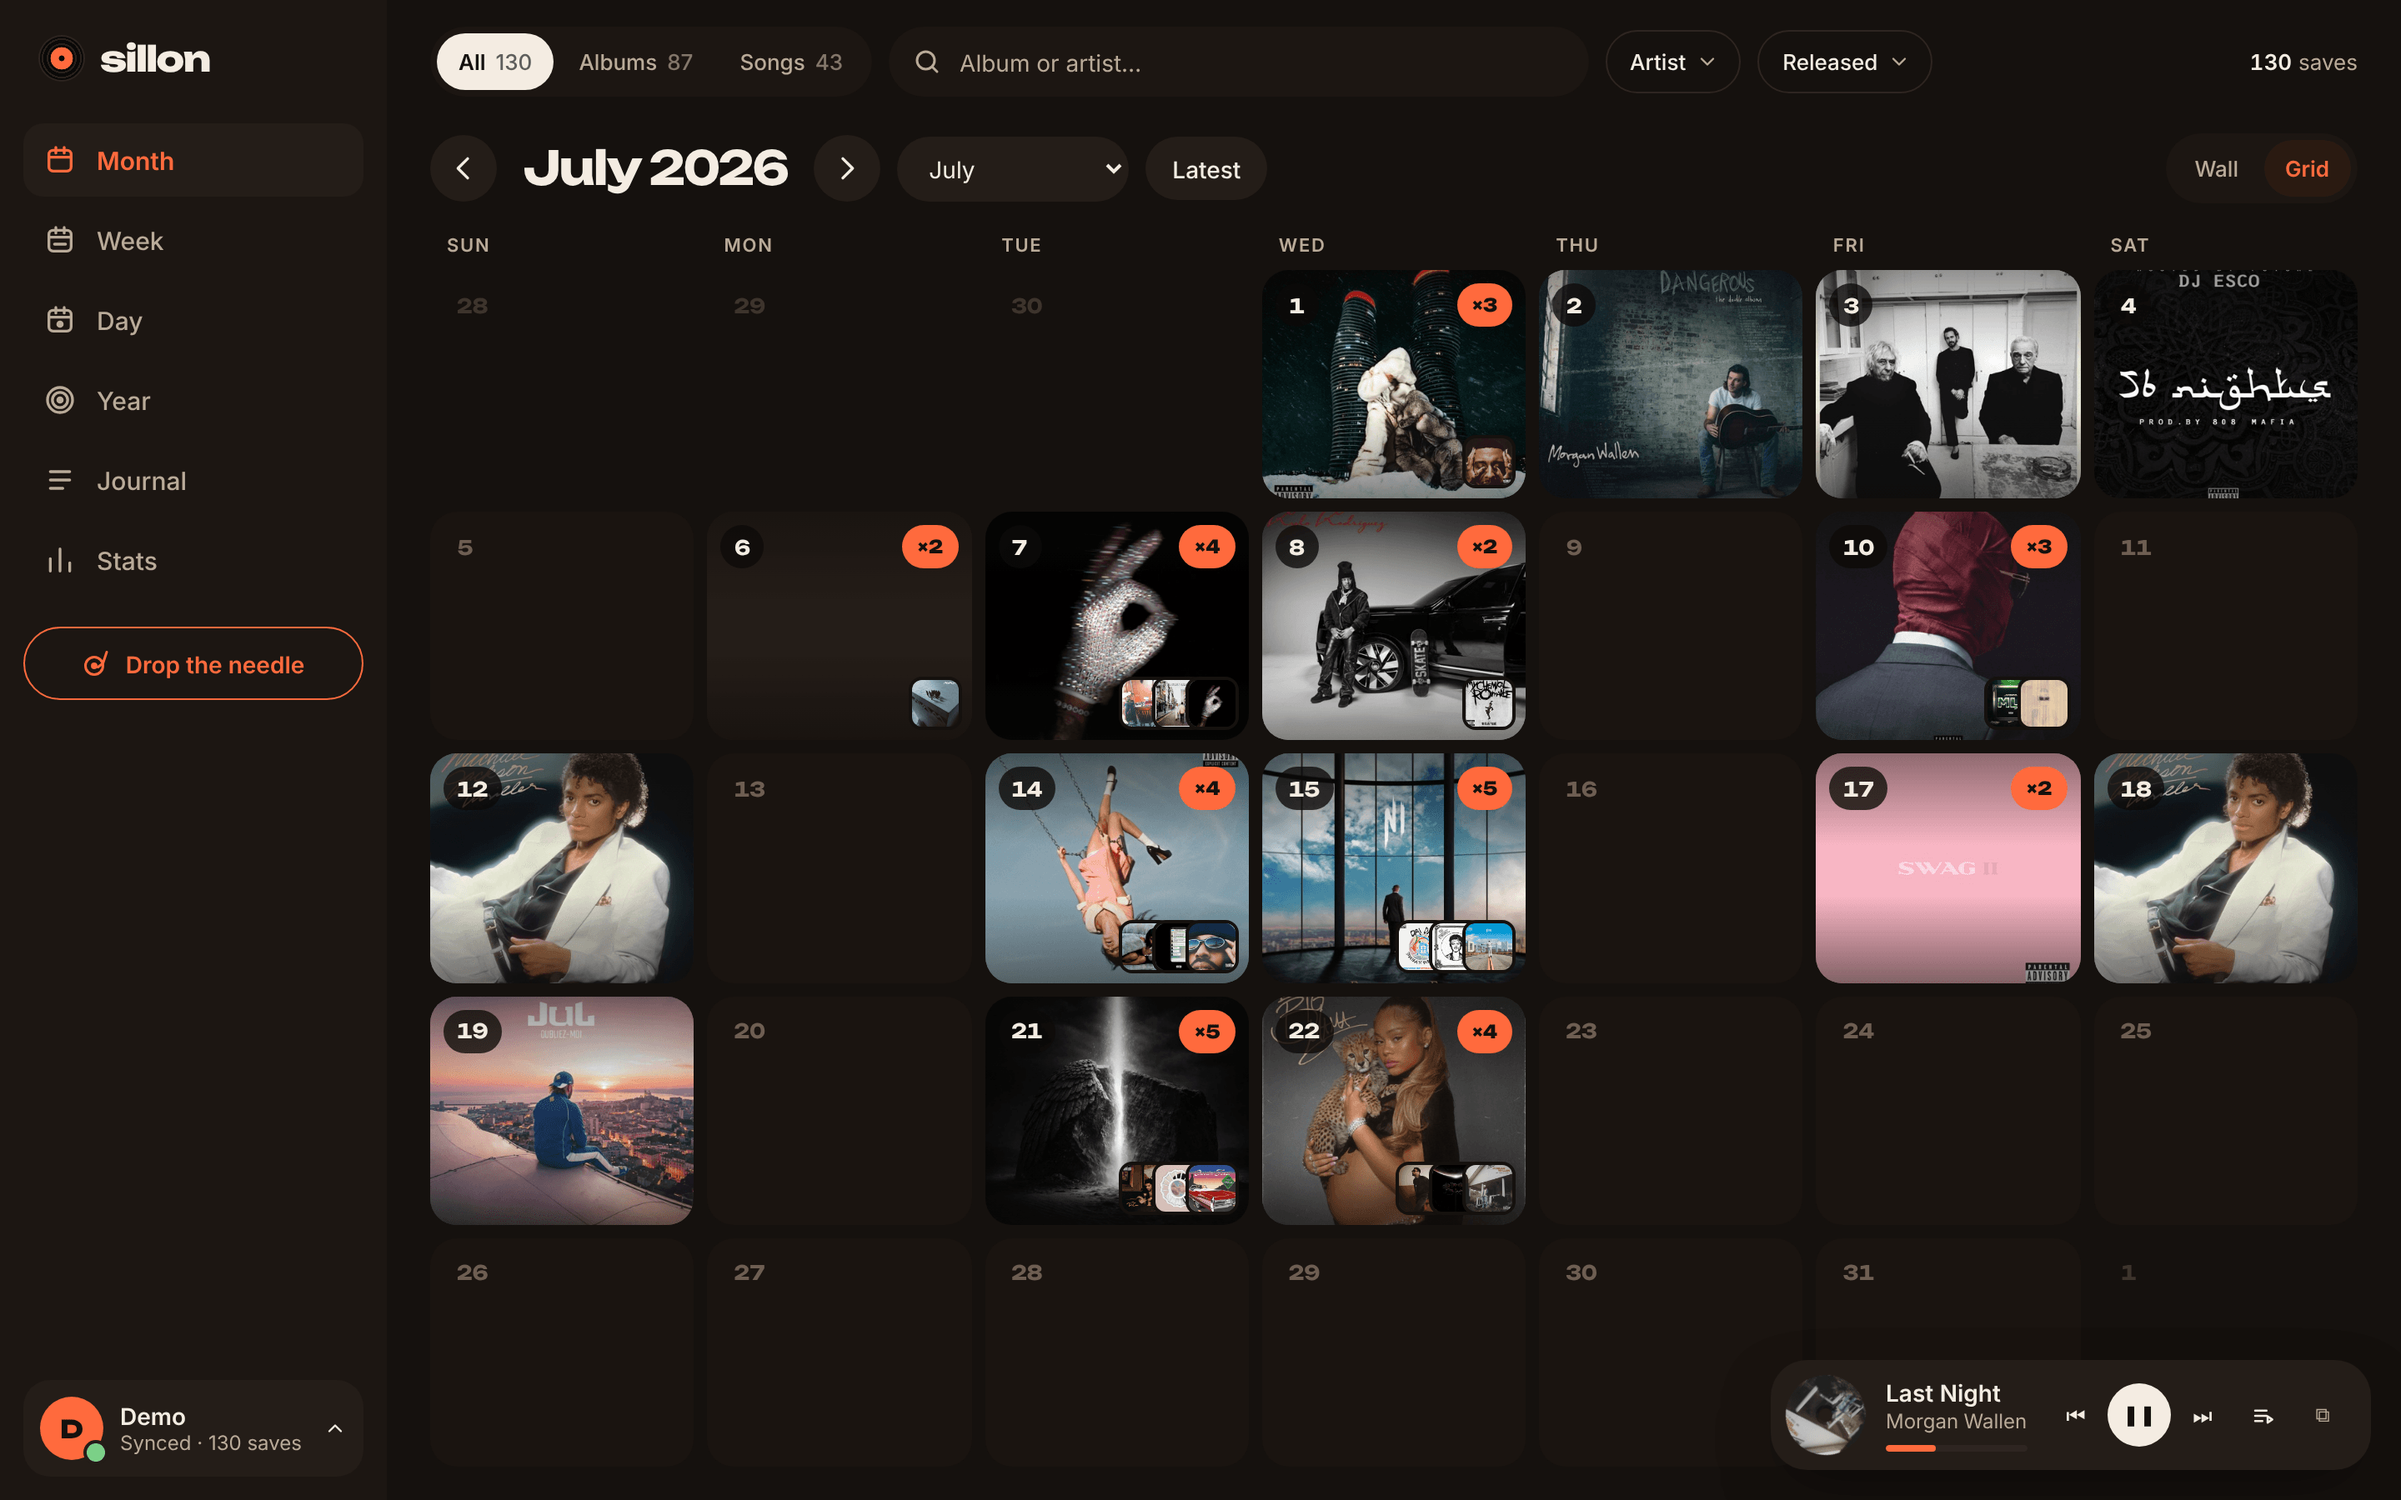
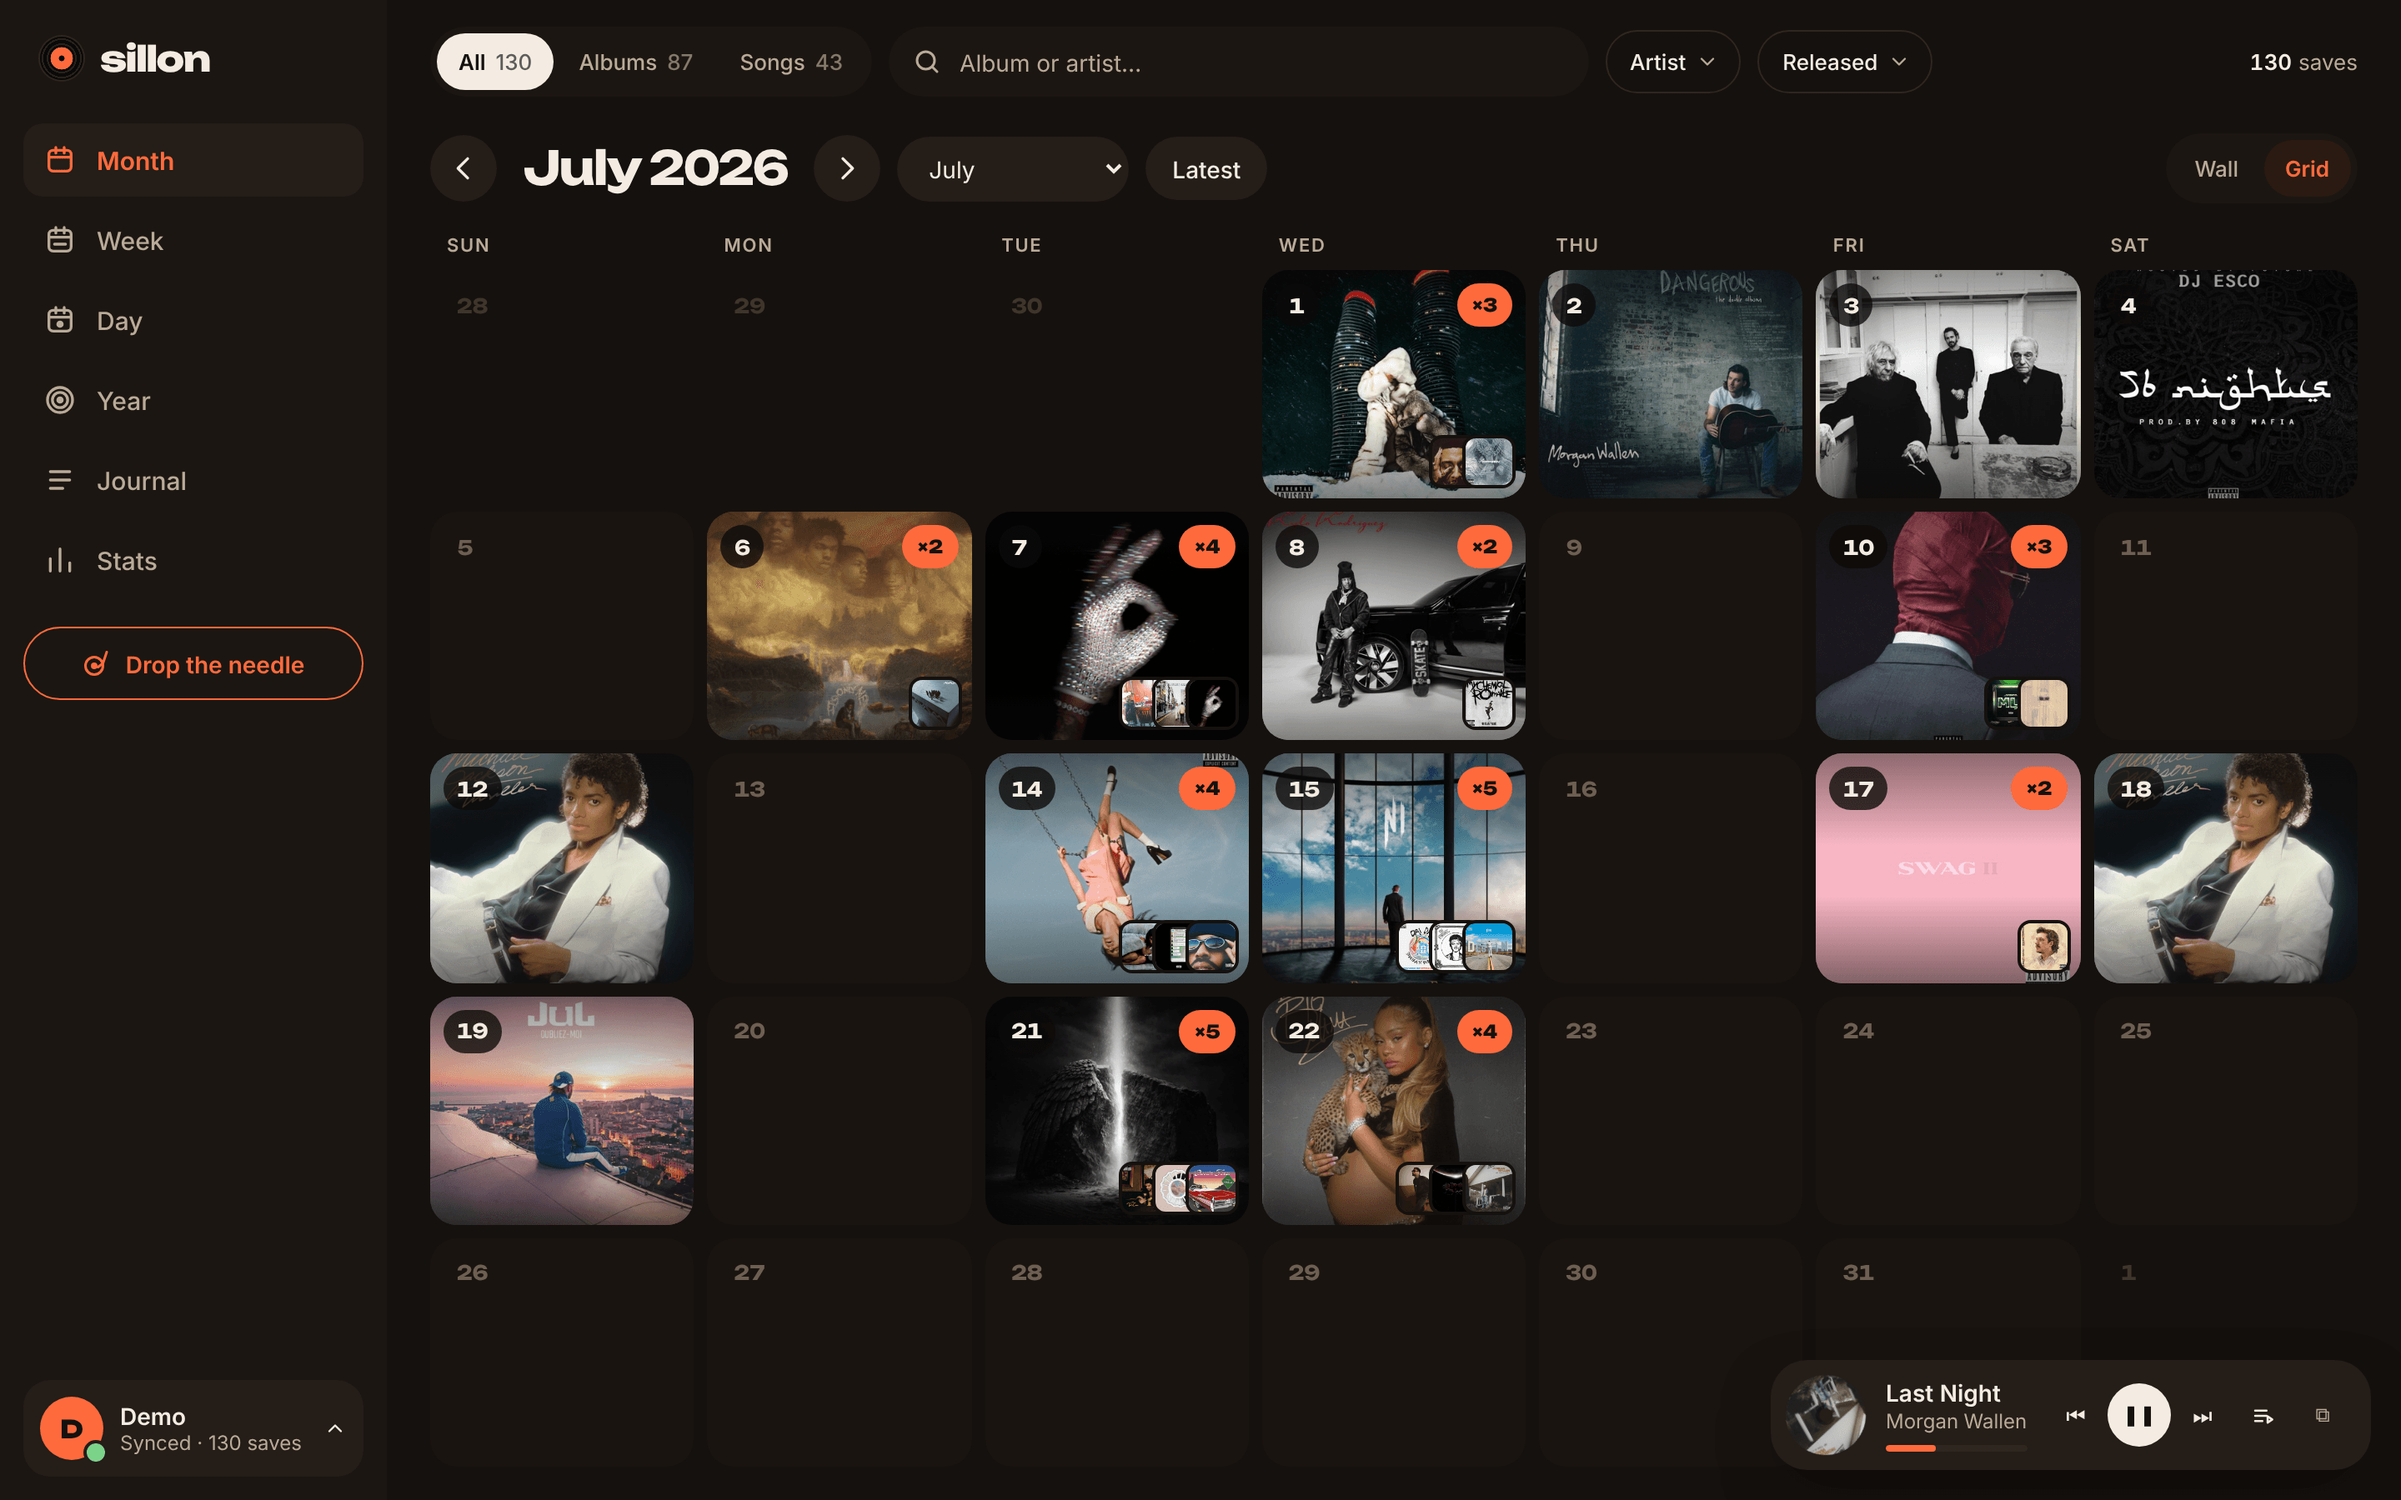
Fix the demo library's dead cover art and recapture the visuals
Ten of the 113 cover URLs in lib/demo-library.json answered 404 on
Apple's art CDN, so demo mode, the Pages showcase and docs/visuals/
showed empty tiles (third cover of 1 July, second of 6 July on the wall).
The cause was in the seed lists, not Apple: eleven track rows had copied
their release's cover without the `.rgb` part of the file name, a path
the CDN does not serve, while the album rows for the same releases used
the `.rgb.jpg` name and worked. Those rows now carry the `.rgb.jpg` URL
and the JSON is regenerated with build-demo-library.mjs (only URLs
change; the seeded save-dates are identical). 110 unique cover URLs
remain, since the fixed track rows now share their album's cover.

Verified: the curl 200-check over every mzstatic URL in the JSON prints
nothing. The app-* images in docs/visuals/ are recaptured against a
DEMO_MODE=1 production build with scripts/capture-visuals.mjs and
re-quantised with sharp (palette, quality 90, dither 1), folder ~12 MB;
the wall at night was looked at and every tile has its cover. The
README's "Known flaw" paragraph goes, and the memory's trap line becomes
a rule for future seed rows. lint (0 errors, the 9 known warnings),
typecheck and the 86 tests pass; `next build` compiles and lists every
route but exits 1 afterwards on Next 16.4.3's security-advisory notice,
which this change does not touch.

Claude-Session: https://claude.ai/code/session_01AKsXpqh5cDusK62YhjP8rs

diff --git a/docs/memory/demo-and-showcase.md b/docs/memory/demo-and-showcase.md
@@ -10,7 +10,7 @@ Read before touching `DEMO_MODE`, `lib/demo.ts`, `lib/demo-library.json`, `showc
 
 ## The fixture library is real releases with synthetic dates (2026-08-20)
 
-`lib/demo-library.json` is generated by `node scripts/build-demo-library.mjs` and holds real albums, tracks, artists and cover-art URLs; only the save-dates are invented, so the calendar looks plausible. Items ship pre-genred, which is why `demoGenres()` resolves from the fixtures instead of calling anything. **How to apply**: edit the seed lists in the script and regenerate — do not hand-edit the JSON.
+`lib/demo-library.json` is generated by `node scripts/build-demo-library.mjs` and holds real albums, tracks, artists and cover-art URLs; only the save-dates are invented, so the calendar looks plausible. Items ship pre-genred, which is why `demoGenres()` resolves from the fixtures instead of calling anything. **How to apply**: edit the seed lists in the script and regenerate — do not hand-edit the JSON. **Trap (2026-11-27)**: Apple's art CDN serves some releases only under their `.rgb.jpg` name; 11 track rows had copied the same release's cover without `.rgb` and 404'd (empty tiles on the wall, in the showcase and in `docs/visuals/`), while their album rows worked. A new seed row reuses the URL of the album row for the same release when there is one, and after any regeneration run the 200-check over every `mzstatic` URL in the JSON (`grep -oE 'https://[a-z0-9.-]*mzstatic[^"]*' lib/demo-library.json | sort -u | xargs -P16 -I{} curl -s -o /dev/null -w '%{http_code} {}\n' {} | grep -v ^200` must print nothing).
 
 ## Screenshots are captured against a running app (2026-08-20)
 
@@ -43,4 +43,4 @@ Consequences worth knowing:
 
 ## Reusable visuals live in `docs/visuals/`, real and mock-up kept apart (2026-11-27)
 
-**Decision** (the owner's ask: images for his site, CHANGELOG entries and GitHub Releases): committed PNGs in `docs/visuals/`, indexed by its `README.md` (file, what it shows, pixel size, and REAL APP or MOCKUP). `app-*` are demo-mode captures by `scripts/capture-visuals.mjs` (every view × night/day × desktop 1440×900 / phone 390×844, plus a 1200×630 social frame, all @2x); `mockup-*` are the design canvas's (`4Cf9s6rnn43rYpmVbdGiDi`) iteration-3 Sillon boards rendered alone. **Why apart**: a mockup shows things the app does not (the owner's name, invented sync times, copy later changed), so it must never pass for a screenshot. **How to apply**: regenerate the `app-*` set after any visible change (demo build, then the script; it differs from `showcase-screenshots.mjs`, which writes the gitignored `site/` in CI and must stay as is), then re-quantise with `sharp` (`png({ palette: true, quality: 90, dither: 1 })`, ~4× smaller, keeps the folder near 11 MB); update the README's table. Rendering a canvas board needs the type's `artifact-type/dc-runtime.js` served as `support.js` and its `/_blob/<id>` cover assets (read one per Artifact call); notes and titles sit in `canvas.json`, so a board rendered alone is already clean. Never publish to the canvas. **Trap found**: ~10 of the 113 demo cover URLs answer 404 on Apple's CDN, leaving empty tiles in captures and in the showcase — regenerate `lib/demo-library.json` before the next capture.
+**Decision** (the owner's ask: images for his site, CHANGELOG entries and GitHub Releases): committed PNGs in `docs/visuals/`, indexed by its `README.md` (file, what it shows, pixel size, and REAL APP or MOCKUP). `app-*` are demo-mode captures by `scripts/capture-visuals.mjs` (every view × night/day × desktop 1440×900 / phone 390×844, plus a 1200×630 social frame, all @2x); `mockup-*` are the design canvas's (`4Cf9s6rnn43rYpmVbdGiDi`) iteration-3 Sillon boards rendered alone. **Why apart**: a mockup shows things the app does not (the owner's name, invented sync times, copy later changed), so it must never pass for a screenshot. **How to apply**: regenerate the `app-*` set after any visible change (demo build, then the script; it differs from `showcase-screenshots.mjs`, which writes the gitignored `site/` in CI and must stay as is), then re-quantise with `sharp` (`png({ palette: true, quality: 90, dither: 1 })`, ~4× smaller, keeps the folder near 11 MB); update the README's table. Rendering a canvas board needs the type's `artifact-type/dc-runtime.js` served as `support.js` and its `/_blob/<id>` cover assets (read one per Artifact call); notes and titles sit in `canvas.json`, so a board rendered alone is already clean. Never publish to the canvas.

diff --git a/docs/visuals/README.md b/docs/visuals/README.md
@@ -55,11 +55,6 @@ theme preference. The month and day are July 2026, the demo library's latest.
 | `app-year-day-phone@2x.png` | Same, day palette | 780 × 1688 |
 | `app-social-card-month-grid-night-1200x630@2x.png` | Social-card frame (1200 × 630, the og:image ratio) of the month in Grid at night | 2400 × 1260 |
 
-Known flaw: about 10 of the demo library's 113 cover URLs now answer 404 on
-Apple's art CDN, so a few tiles show an empty square (most visibly the third
-cover of 1 July and the second of 6 July on the wall). Regenerating the fixtures
-(`node scripts/build-demo-library.mjs`) and re-running the capture fixes it.
-
 ## Mockups (design canvas)
 
 From the canvas's "Itération 3 — synthèse" page (the reference the app was built
